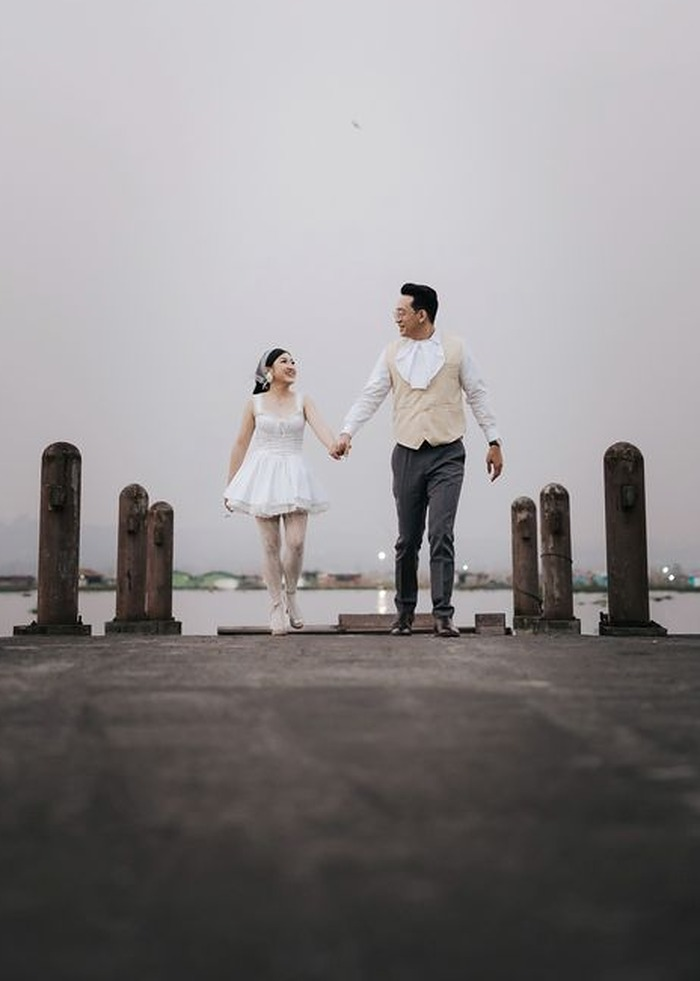
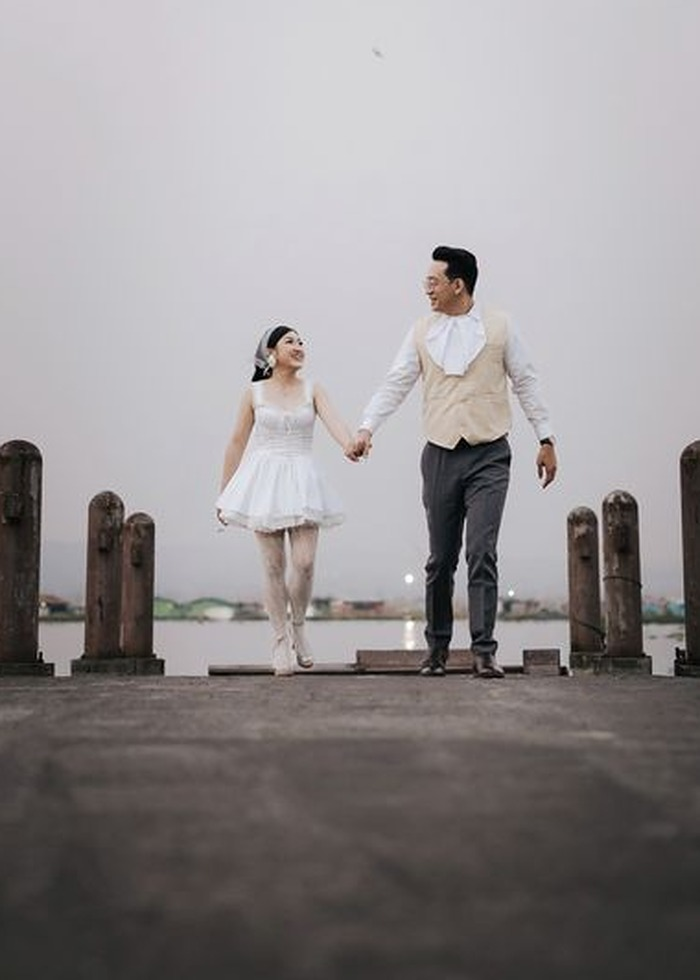
Foto penutup: kurangi dek kosong bawah, pasangan lebih seimbang
Re-crop gallery-5 380x532+150+404 (pasangan lebih besar, tiang tetap
membingkai, dek bawah berkurang). closing.jpg?v=5, cache fresco55.

Claude-Session: https://claude.ai/code/session_01GMSdUjAdfB16khtqgiAMZX

Changed region(s): [[0.0, 0.2449, 1.0, 0.9796], [0.66, 0.9184, 0.75, 0.949], [0.36, 0.7959, 0.39, 0.8265]]

diff --git a/index.html b/index.html
@@ -12,7 +12,7 @@
   <link rel="preconnect" href="https://fonts.googleapis.com" />
   <link rel="preconnect" href="https://fonts.gstatic.com" crossorigin />
   <link href="https://fonts.googleapis.com/css2?family=Cormorant+Garamond:ital,wght@0,400;0,500;0,600;1,400;1,500&family=EB+Garamond:ital,wght@0,400;0,500;1,400&family=Great+Vibes&display=swap" rel="stylesheet" />
-  <link rel="stylesheet" href="css/style.css?v=fresco54" />
+  <link rel="stylesheet" href="css/style.css?v=fresco55" />
 </head>
 <body class="locked assemble">
 
@@ -521,7 +521,7 @@
   <!-- Toast -->
   <div id="toast" class="toast" role="status" aria-live="polite"></div>
 
-  <script src="js/config.js?v=fresco54"></script>
-  <script src="js/main.js?v=fresco54"></script>
+  <script src="js/config.js?v=fresco55"></script>
+  <script src="js/main.js?v=fresco55"></script>
 </body>
 </html>

diff --git a/js/config.js b/js/config.js
@@ -30,7 +30,7 @@ window.WEDDING_CONFIG = {
   coverPhotoTone: "light",
 
   // Foto bingkai lengkung di bagian penutup. "" = ikut coverPhoto/mural.
-  closingPhoto: "assets/img/closing.jpg?v=4",
+  closingPhoto: "assets/img/closing.jpg?v=5",
 
   // Kisah cinta — sunting bebas; hapus item jika tidak ingin ditampilkan.
   loveStory: [
